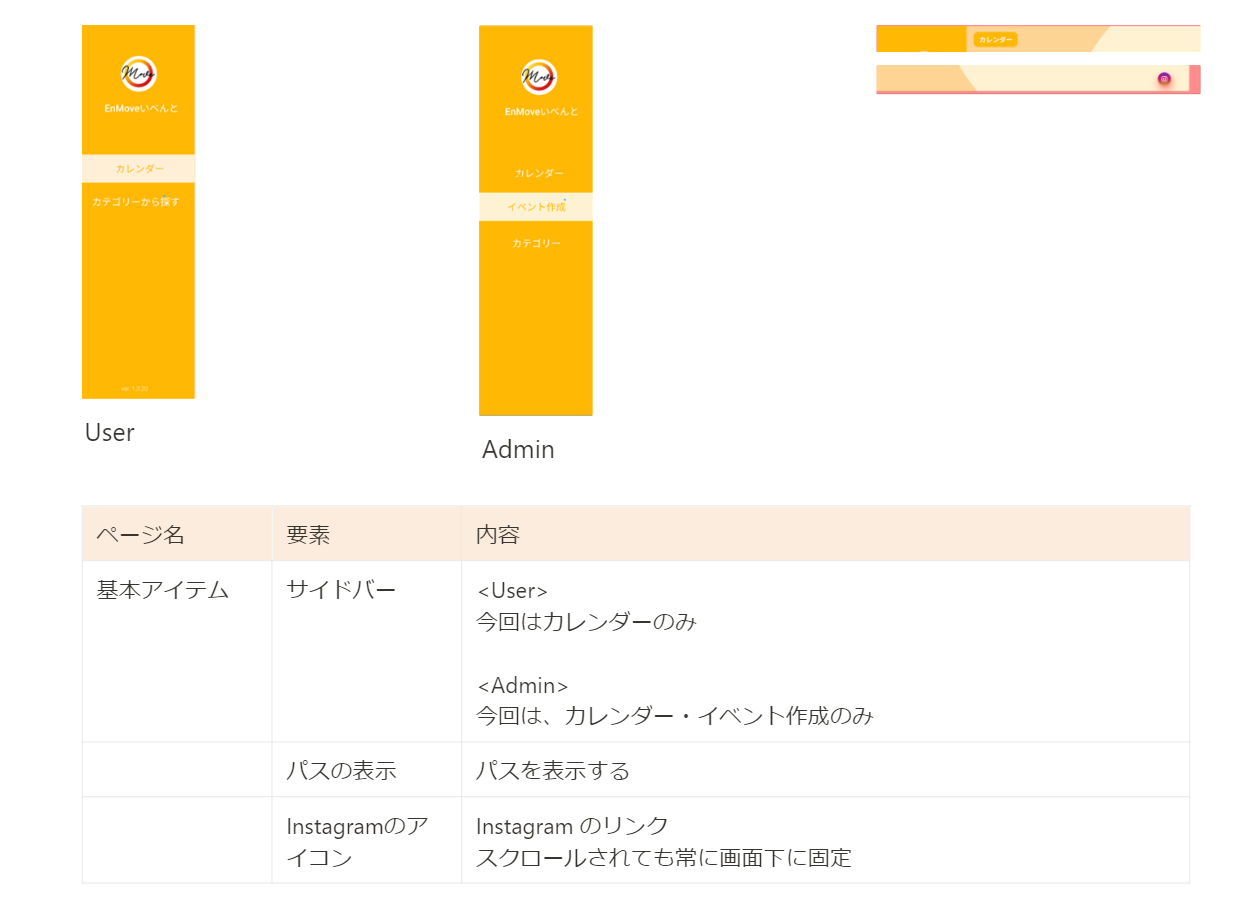
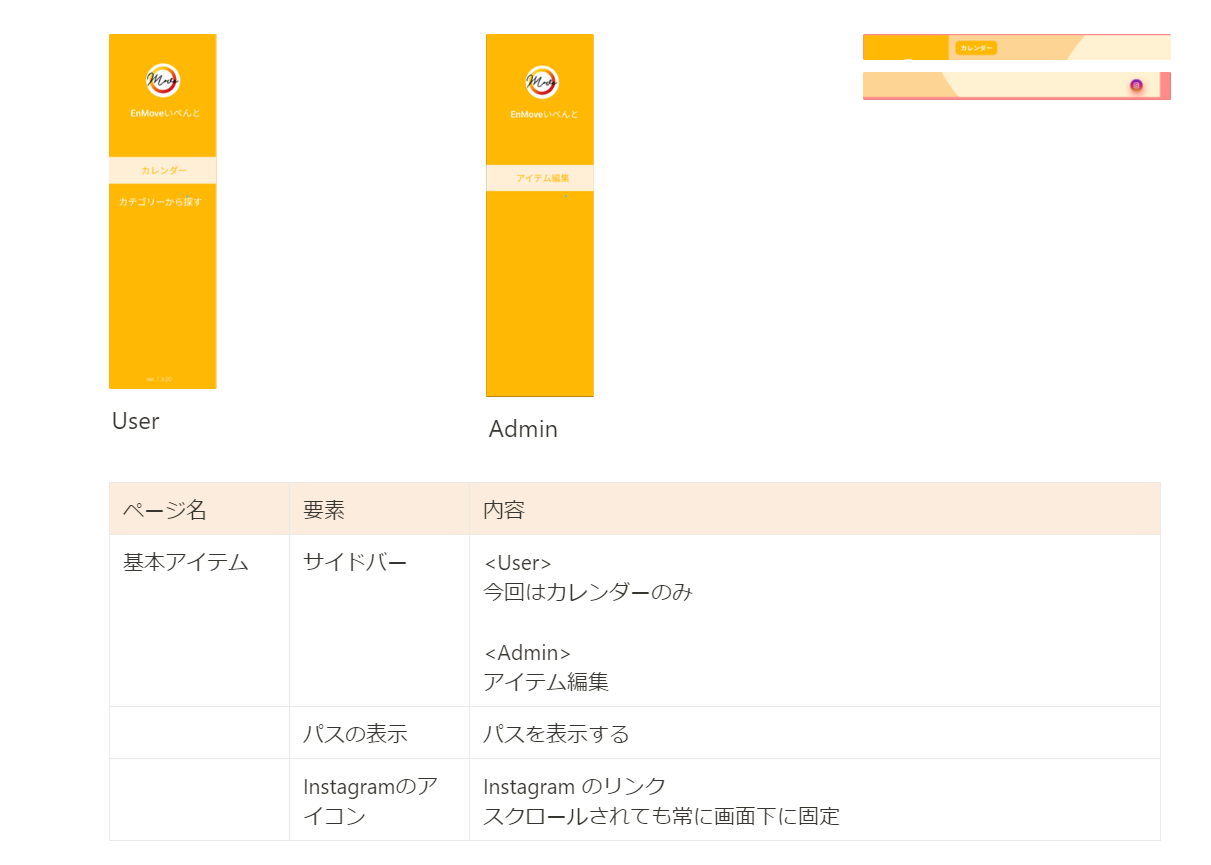
change UI

diff --git a/README.md b/README.md
@@ -19,23 +19,35 @@
 
 ![USERとAdmin用の基本機能](images/Basic-function.png "basic-function")
 
-## 2\. カレンダー
+## 2\. User
 
-![カレンダーとモダル](images/Calendar-images.png "calendar-images")
-![説明](images/Calendar-description.png "calendar-description")
+### 1\. カレンダー
 
-## 3\. イベント詳細
+![カレンダーとモダル](images/Calendar.png "calendar")
 
-![イベント詳細と編集ページ](images/Event-detail%26edit.png "calendar-detail&edit")
+### 2\. イベントの詳細
 
-## 4\. 申込フォーム
+![イベント詳細ページ](images/Event-detail.png "event-detail")
+
+### 3\. 申込フォーム
 
 ![申込フォーム](images/Apply-image.png "apply-image")
 ![説明](images/Apply-description.png "apply-description")
 
-## 5\.　イベント作成
+## 2\.　 Admin
 
-![イベント作成](images/Create-event.png "create-event")
+### 1\. イベント編集（Category）
+
+![Category](images/Category.png "Category")
+
+### 2\. イベント編集(Title)
+
+![Title](images/Title.png "Title")
+
+### 3\. イベント編集(Event)
+
+![Event-images](images/Event-images.png "Event-images")
+![Event-description](images/Event-description.png "Event-description")
 
 # 3\. データベース設計
 
@@ -68,28 +80,22 @@
 
 ## 5\. Titles
 
-| id  | category_id  | name                   | form_id |
-| --- | ------------ | ---------------------- | ------- |
-| 1   | 勉強会       | Joyful English Meetup  | 1       |
-| 2   | 勉強会       | ひよこプログラミング塾 | 2       |
-| 3   | PodCasts     | Listen to Voice        | 3       |
-| 4   | 季節イベント | クリスマス会           | 4       |
-| 5   | スポーツ     | バレーボール           | 5       |
+| id  | category_id  | name                   | form_url              |
+| --- | ------------ | ---------------------- | --------------------- |
+| 1   | 勉強会       | Joyful English Meetup  | https://forms.gle/... |
+| 2   | 勉強会       | ひよこプログラミング塾 | ...                   |
+| 3   | PodCasts     | Listen to Voice        | ...                   |
+| 4   | 季節イベント | クリスマス会           | ....                  |
+| 5   | スポーツ     | バレーボール           | ....                  |
+|  |
 
-## 6\. Forms
+## 6\. Applications
 
-| id  | form_url                            |
-| --- | ----------------------------------- |
-| 1   | https://forms.gle/j7ayVeeAwewx6D2Q8 |
-| 2   | ・・・                              |
+| id  | event_id | mail | sex_id | property_id | year_id | qualification | confirmed |
+| --- | -------- | ---- | ------ | ----------- | ------- | ------------- | --------- | --- |
+| 1   |          |      |        |             |         |               |           |     |
 
-## 7\. Applications
-
-| id  | form_id | event_id | mail | sex_id | property_id | year_id | qualification | confirmed |
-| --- | ------- | -------- | ---- | ------ | ----------- | ------- | ------------- | --------- |
-| 1   |         |          |      |        |             |         |               |           |
-
-## 8\. Years
+## 7\. Years
 
 | id  | year           |
 | --- | -------------- |
@@ -100,7 +106,7 @@
 | 5   | 10 年 ～ 15 年 |
 | 6   | 15 年 ～       |
 
-## 9\. Properties
+## 8\. Properties
 
 | id  | name               |
 | --- | ------------------ |
@@ -119,7 +125,7 @@
 | 13  | 定年退職           |
 | 14  | その他             |
 
-## 10\. Sexes
+## 9\. Sexes
 
 | id  | name   |
 | --- | ------ |
